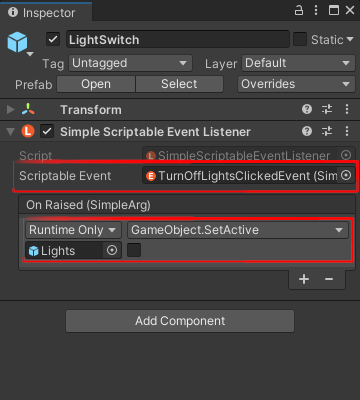
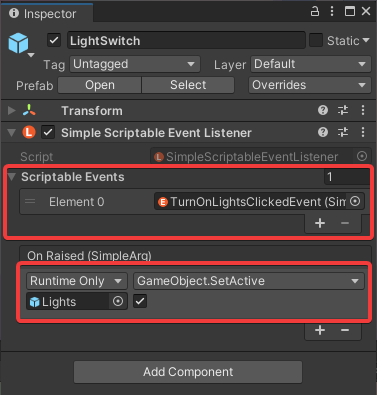
Update event documentation to include multi-events, set package version to 2.2.0, update data in LICENSE.md

diff --git a/Packages/com.chark.scriptable-events/Documentation~/README.md b/Packages/com.chark.scriptable-events/Documentation~/README.md
@@ -31,8 +31,10 @@ Next, create a new _GameObject_ in the scene and add a _Simple Scriptable Event 
 </p>
 
 Afterwards, do the following:
-- Insert event asset into the _Scriptable Event_ field
-- Insert Game Objects which should be triggered into the _On Raised_ [Unity Event] field
+- Add event asset into the _Scriptable Events_ field
+  - Note that you can more than one event of the same type
+  - In case of multiple events, the listener will be triggered when any of those events get raised
+- Add Game Objects which should be triggered into the _On Raised_ [Unity Event] field
 - Select the methods which should be triggered by the event
 
 For example, if you wanted to turn off a light, the listener setup might be as follows (as seen in [Simple Events] sample):

diff --git a/Packages/com.chark.scriptable-events/CHANGELOG.md b/Packages/com.chark.scriptable-events/CHANGELOG.md
@@ -4,6 +4,11 @@ All notable changes to this project will be documented in this file.
 The format is based on [Keep a Changelog](https://keepachangelog.com/en/1.0.0/),
 and this project adheres to [Semantic Versioning](https://semver.org/spec/v2.0.0.html).
 
+## [2.2.0] - 2022-08-04
+Multi events.
+
+- `BaseScriptableEventListener<TArg>` now supports multiple events. This should be a non-breaking change. Migration from `scriptableEvent` to a list of `scriptableEvents` is done via `ISerializationCallbackReceiver` which is implemented in `BaseScriptableEventListener<TArg>`.
+
 ## [2.1.0] - 2022-02-05
 Quality of life improvements.
 

diff --git a/LICENSE.md b/LICENSE.md
@@ -1,6 +1,6 @@
 MIT License
 
-Copyright (c) 2021 CHARK
+Copyright (c) 2022 CHARK
 
 Permission is hereby granted, free of charge, to any person obtaining a copy
 of this software and associated documentation files (the "Software"), to deal
